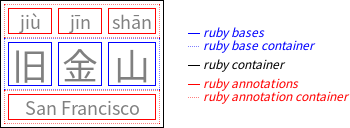
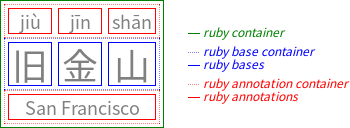
[css-ruby-1] Adjust labeling for box diagrams.

diff --git a/css-ruby-1/images/ruby-boxes.css b/css-ruby-1/images/ruby-boxes.css
@@ -1,0 +1,37 @@
+html { font: 18px/1 Source Han Sans; text-align: center; }
+div, ::before { border-width: 1px !important; }
+
+body > .ruby  { border: solid green;    padding: 3px }
+.ruby .rtc  { border: dotted red ;    }
+.ruby .rbc  { border: dotted blue;    }
+.ruby .rt   { border: solid red  ;    padding: 3px; margin: 3px ;  color: gray; }
+.ruby .rb   { border: solid blue ;    padding: 3px; margin: 3px ;  color: gray; font-size: 200%; }
+
+.labels {
+	font-style: italic;
+	font-size: 12px;
+	line-height: 1.1;
+	text-align: left;
+	padding-left: 2em;
+	display: block;
+}
+.labels > * {
+	margin: 0.5em 0;
+}
+.labels .ruby           { color: green; }
+.labels :is(.rt, .rtc)  { color: red; }
+.labels :is(.rb, .rbc)  { color: blue; }
+
+.labels :is(.ruby, .rt, .rtc, .rb, .rbc)::before {
+	content: '';
+	display: inline-block;
+	vertical-align: middle;
+	width: 1em;
+	margin-right: 0.25em;
+}
+:is(.ruby, .rt, .rb)::before {
+	border-top-style: solid;
+}
+:is(.rtc, .rbc)::before {
+	border-top-style: dotted;
+}

diff --git a/css-ruby-1/images/ruby-boxes-simple.html b/css-ruby-1/images/ruby-boxes-simple.html
@@ -1,6 +1,6 @@
 <!DOCTYPE html>
 <style>
-	@import "dia.css";
+	@import "ruby-boxes.css";
 	body { display: flex; align-items: center; }
 	body > .ruby { display: grid; grid-template-columns: auto auto auto; }
 	.ruby  div   { display: grid; grid-template-columns: subgrid; }
@@ -17,15 +17,13 @@
 </div>
 
 <div class="labels">
-	<div>
-		<div class="rb">ruby bases</div>
-		<div class="rbc">ruby base container</div>
-	</div>
-
 	<div class="ruby">ruby container</div>
-
 	<div>
-		<div class="rt">ruby annotations</div>
+		<div class="rbc">ruby base container</div>
+		<div class="rb">ruby bases</div>
+	</div>
+	<div>
 		<div class="rtc">ruby annotation container</div>
+		<div class="rt">ruby annotations</div>
 	</div>
 </div>

diff --git a/css-ruby-1/images/ruby-boxes-complex.html b/css-ruby-1/images/ruby-boxes-complex.html
@@ -1,6 +1,6 @@
 <!DOCTYPE html>
 <style>
-	@import "dia.css";
+	@import "ruby-boxes.css";
 	body { display: flex; align-items: center; }
 	body > .ruby { display: grid; grid-template-columns: auto auto auto; }
 	.ruby > div  { display: grid; grid-template-columns: subgrid; }
@@ -20,13 +20,13 @@
 </div>
 
 <div class="labels">
-	<div>
-		<div class="rb">ruby bases</div>
-		<div class="rbc">ruby base container</div>
-	</div>
 	<div class="ruby">ruby container</div>
 	<div>
-		<div class="rt">ruby annotations</div>
+		<div class="rbc">ruby base container</div>
+		<div class="rb">ruby bases</div>
+	</div>
+	<div>
 		<div class="rtc">ruby annotation container</div>
+		<div class="rt">ruby annotations</div>
 	</div>
 </div>
